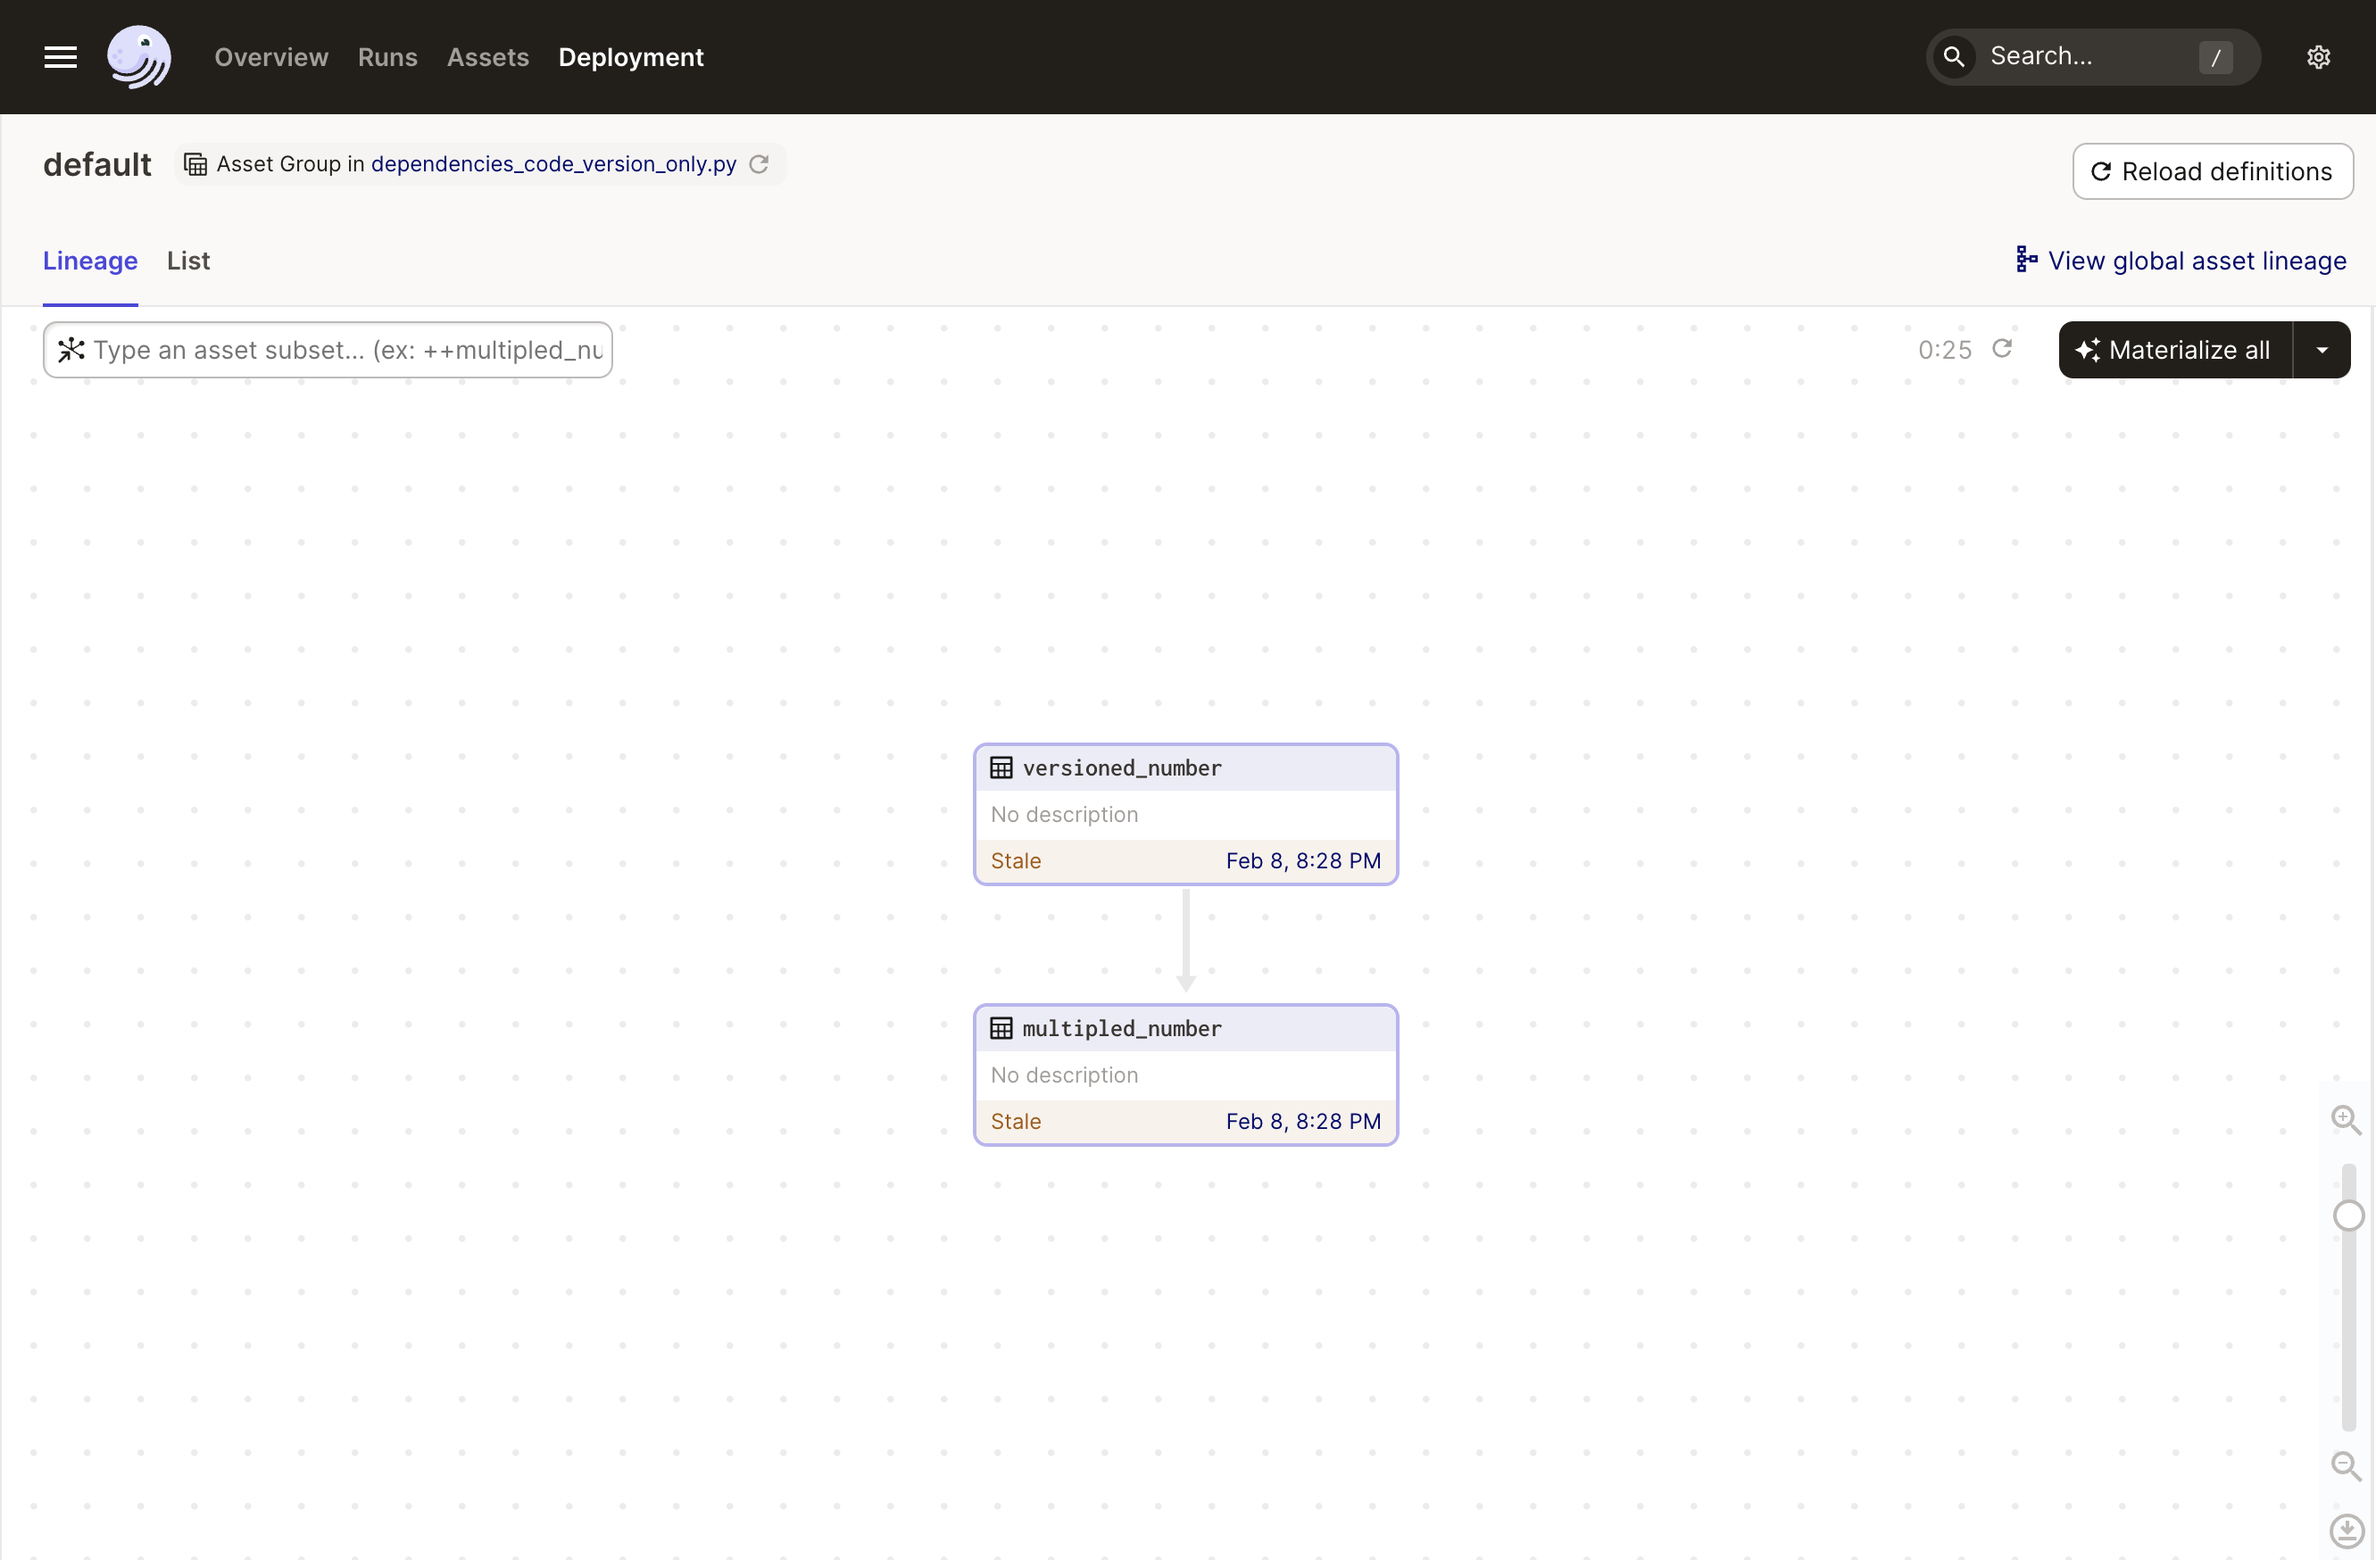
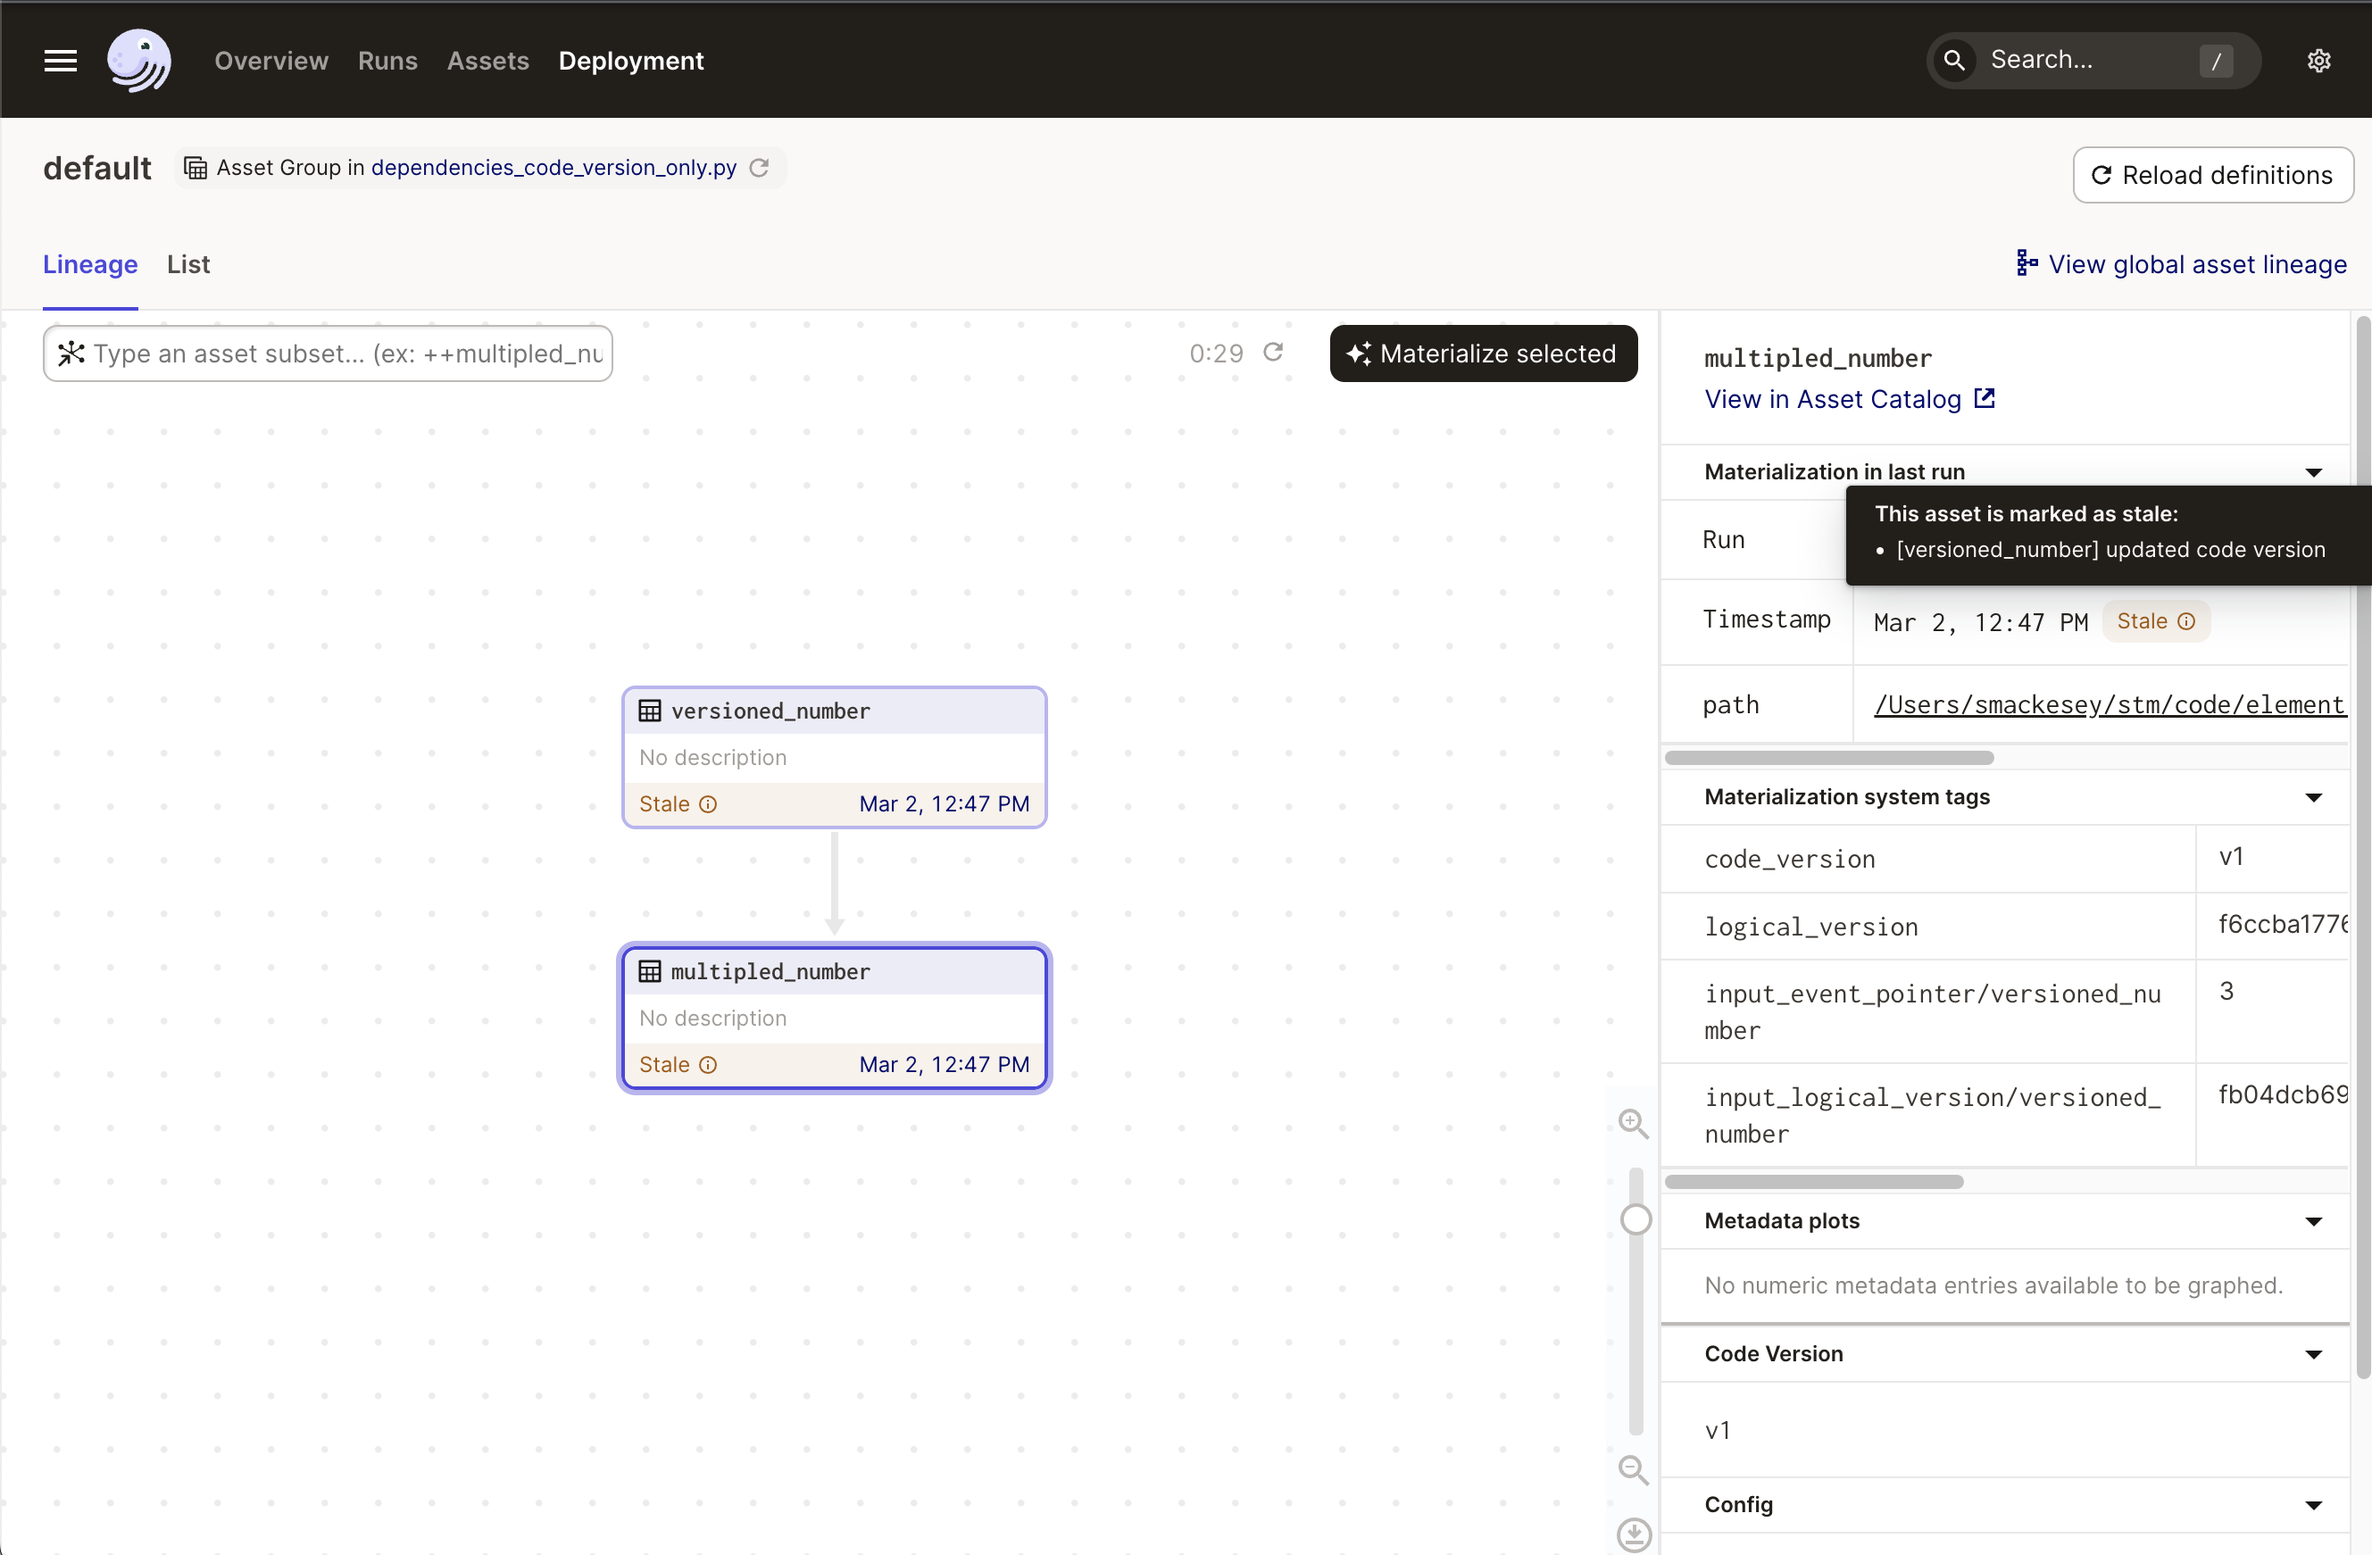
update guide

diff --git a/examples/docs_snippets/docs_snippets/guides/dagster/asset_versioning_and_caching/observable_source_asset_path_with_non_argument_deps.py b/examples/docs_snippets/docs_snippets/guides/dagster/asset_versioning_and_caching/observable_source_asset_path_with_non_argument_deps.py
@@ -1,6 +1,12 @@
 from hashlib import sha256
 
-from dagster import LogicalVersion, asset, file_relative_path, observable_source_asset
+from dagster import (
+    LogicalVersion,
+    Output,
+    asset,
+    file_relative_path,
+    observable_source_asset,
+)
 
 
 def sha256_digest_from_str(string: str) -> str:
@@ -18,12 +24,13 @@ def input_number():
         return LogicalVersion(sha256_digest_from_str(ff.read()))
 
 
-@asset(code_version="v3", non_argument_deps={"input_number"})
+@asset(code_version="v6", non_argument_deps={"input_number"})
 def versioned_number():
     with open(FILE_PATH) as ff:
-        return int(ff.read())
+        value = int(ff.read())
+        return Output(value, logical_version=LogicalVersion(str(value)))
 
 
 @asset(code_version="v1")
-def multipled_number(versioned_number):
+def multiplied_number(versioned_number):
     return versioned_number * 2

diff --git a/examples/docs_snippets/docs_snippets/guides/dagster/asset_versioning_and_caching/manual_logical_versions_2.py b/examples/docs_snippets/docs_snippets/guides/dagster/asset_versioning_and_caching/manual_logical_versions_2.py
@@ -1,0 +1,12 @@
+from dagster import LogicalVersion, Output, asset
+
+
+@asset(code_version="v5")
+def versioned_number():
+    value = 10 + 10
+    return Output(value, logical_version=LogicalVersion(str(value)))
+
+
+@asset(code_version="v1")
+def multiplied_number(versioned_number):
+    return versioned_number * 2

diff --git a/examples/docs_snippets/docs_snippets/guides/dagster/asset_versioning_and_caching/manual_logical_versions_1.py b/examples/docs_snippets/docs_snippets/guides/dagster/asset_versioning_and_caching/manual_logical_versions_1.py
@@ -1,0 +1,12 @@
+from dagster import LogicalVersion, Output, asset
+
+
+@asset(code_version="v4")
+def versioned_number():
+    value = 20
+    return Output(value, logical_version=LogicalVersion(str(value)))
+
+
+@asset(code_version="v1")
+def multiplied_number(versioned_number):
+    return versioned_number * 2

diff --git a/examples/docs_snippets/docs_snippets/guides/dagster/asset_versioning_and_caching/dependencies_code_version_only.py b/examples/docs_snippets/docs_snippets/guides/dagster/asset_versioning_and_caching/dependencies_code_version_only.py
@@ -7,5 +7,5 @@ def versioned_number():
 
 
 @asset(code_version="v1")
-def multipled_number(versioned_number):
+def multiplied_number(versioned_number):
     return versioned_number * 2

diff --git a/examples/docs_snippets/docs_snippets/guides/dagster/asset_versioning_and_caching/dependencies_code_version_only_v2.py b/examples/docs_snippets/docs_snippets/guides/dagster/asset_versioning_and_caching/dependencies_code_version_only_v2.py
@@ -7,5 +7,5 @@ def versioned_number():
 
 
 @asset(code_version="v1")
-def multipled_number(versioned_number):
+def multiplied_number(versioned_number):
     return versioned_number * 2
